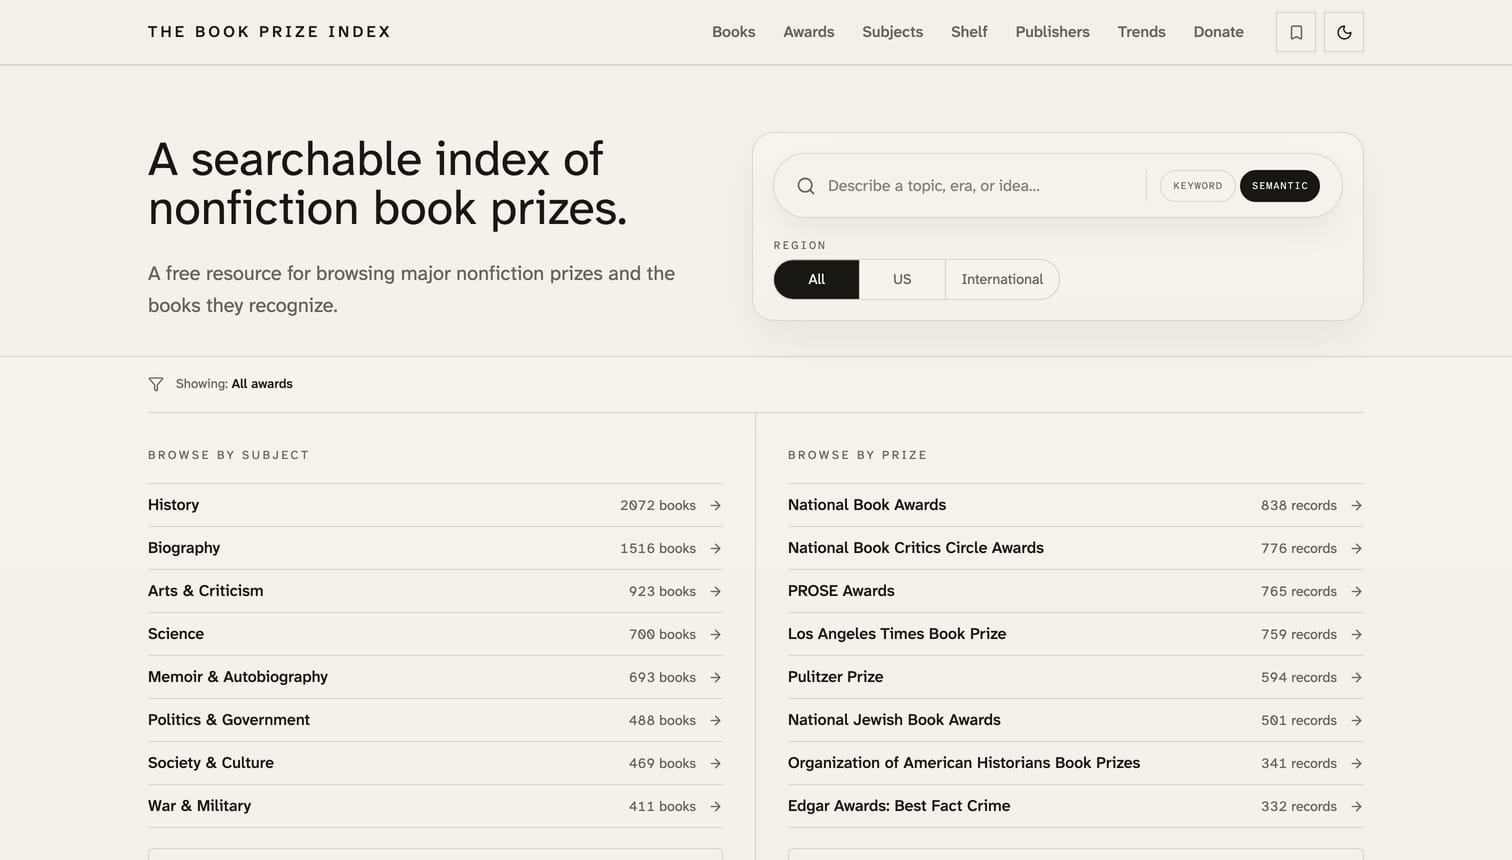
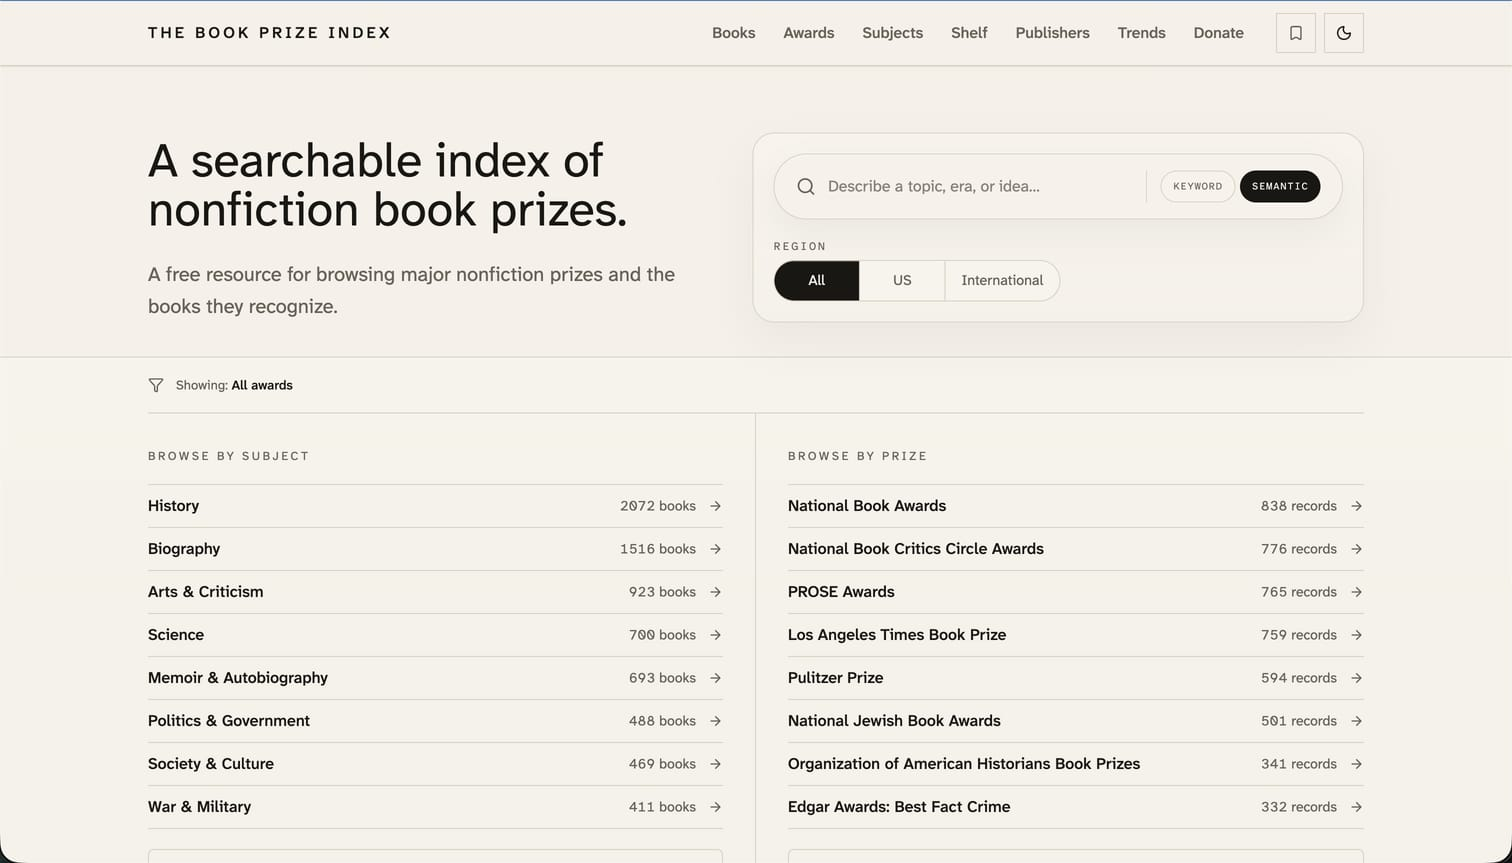
book prize index

diff --git a/src/styles/site.css b/src/styles/site.css
@@ -117,7 +117,8 @@ main { max-width: 72rem; margin: 0 auto; }
 /* on a phone tile the tag sits on the phone's top-left corner: same grid cell, centred, then shifted left by half the phone's width */
 .wall .phonebox > .phone, .wall .phonebox > .draft { grid-area: 1 / 1; }
 .wall .phonebox > .draft { position: static; justify-self: center; align-self: start; margin-left: -29%; translate: 30% -0.45rem; }
-.ledger .acc .draft { position: static; display: inline-flex; margin-left: 0.5rem; transform: none; }
+.ledger .acc .draft { position: static; display: inline-flex; margin: 0.2rem 0 0; transform: none; }
+.ledger .acc { display: flex; flex-direction: column; align-items: flex-start; }
 /* on the detail page it sits on the top-left corner of the paper mat (or the "no picture yet" card) */
 .detail .mat .draft, .detail .noshot .draft { top: -0.7rem; left: 1.2rem; }
 /* three across; frames keep browser proportions (1512:860) */
